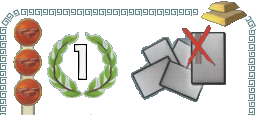
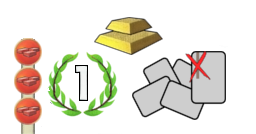
Changement des images d'étape

diff --git a/src/StepPanel.java b/src/StepPanel.java
@@ -20,15 +20,15 @@ public class StepPanel extends JPanel{
 	}
 
 	public void paintComponent(Graphics g) {
-		super.paintComponent(g);
-		Graphics2D drawable = (Graphics2D)g;
-		BufferedImage image = null;
-		try {
-			image = ImageIO.read(getImage("transparent.png"));
-		} catch (IOException e) {
-			e.printStackTrace();
-		}
-		drawable.drawImage(image, 0, 0, this);
+//		super.paintComponent(g);
+//		Graphics2D drawable = (Graphics2D)g;
+//		BufferedImage image = null;
+//		try {
+//			image = ImageIO.read(getImage("transparent.png"));
+//		} catch (IOException e) {
+//			e.printStackTrace();
+//		}
+//		drawable.drawImage(image, 0, 0, this);
 	}
 
 	private URL getImage(String nom) {

diff --git a/src/HelpAnimation.java b/src/HelpAnimation.java
@@ -49,7 +49,7 @@ public class HelpAnimation implements ActionListener {
 
 		yPanel = Math.max(yPanel-delta, Frame.frame.getHeight()-330);
 		// On détermine la position du panel d'étape
-		instructions.setBounds(0, 125, widthInstructions, heightInstructions);
+		instructions.setBounds(0, 144, widthInstructions, heightInstructions);
 
 		// On détermine la position finale et la taille du panel d'étape
 		stepPanel.setPreferredSize(new Dimension(widthPanel, heightPanel));

diff --git a/src/StepArea.java b/src/StepArea.java
@@ -48,11 +48,7 @@ public class StepArea extends JPanel{
 				} catch (IOException e) {
 					e.printStackTrace();
 				}
-				drawable.drawImage(croix, 0, 0, this);
-			}else{
-				/*RessourceList<Ressource> cost = new RessourceList(step.ressourceCost);
-				if (!Game.getPlayerTurn().canPay(cost)){
-				}*/
+				drawable.drawImage(croix, 0, 19, this);
 			}
 		}
 	}
